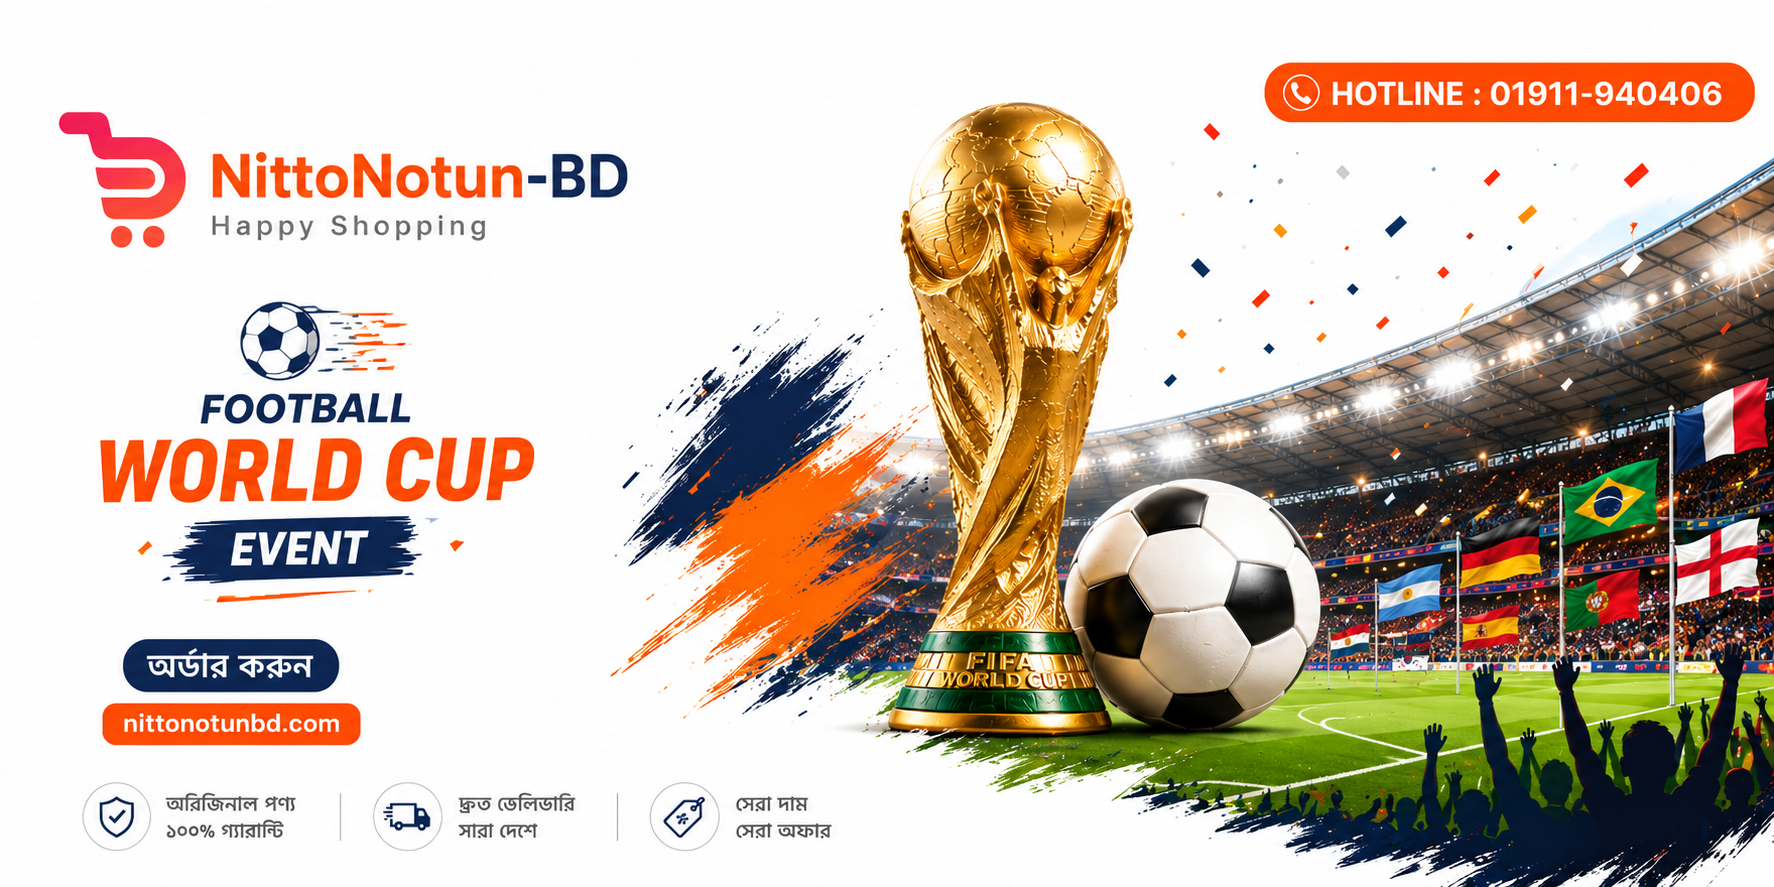
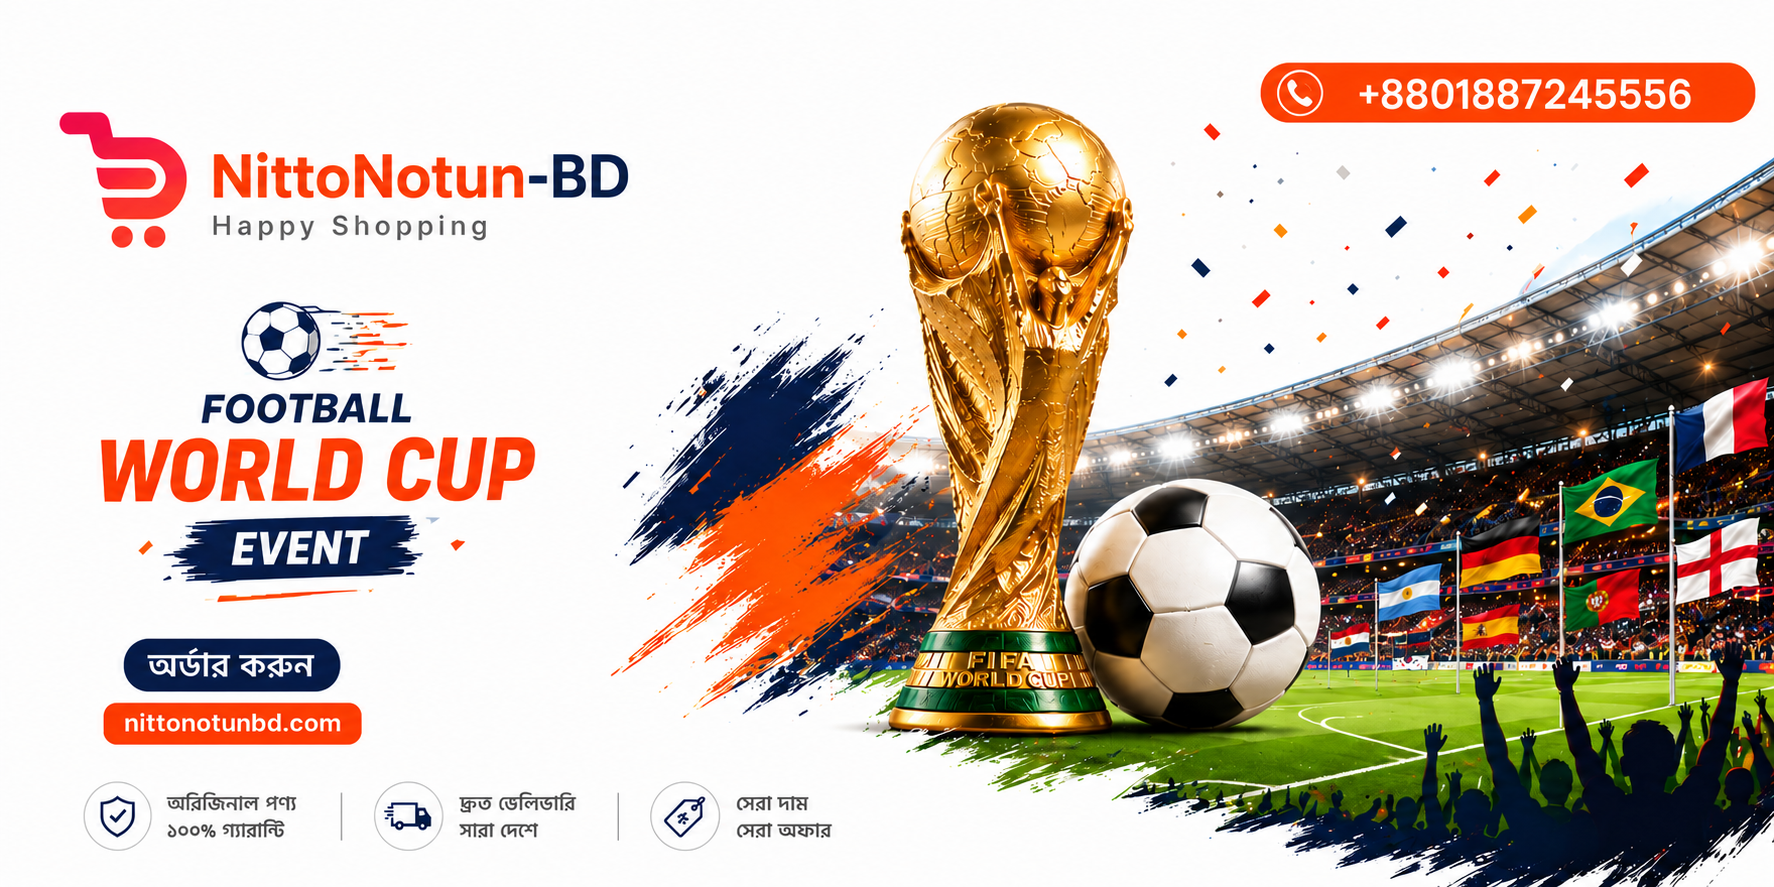
fix: Diaper category rename, remove loading spinner, admin panel update

diff --git a/src/components/DiaperSection.tsx b/src/components/DiaperSection.tsx
@@ -1,83 +1,27 @@
 "use client";
 
-import React, { useState, useEffect } from 'react';
+import React from 'react';
 import Image from 'next/image';
 import Link from 'next/link';
 import { useRouter } from 'next/navigation';
 import { useCart } from '../context/CartContext';
-import { supabase } from '../lib/supabase';
 import styles from './DiaperSection.module.css';
 
 interface DiaperItem {
   id: string | number;
+  slug?: string;
   title: string;
   price: number;
   imageUrl: string;
 }
 
-const mockDiaperProducts: DiaperItem[] = [
-  {
-    id: "diaper-5pcs",
-    title: "৫ পিস রি-ইউজেবল ডায়াপার",
-    price: 950,
-    imageUrl: "/images/products/diaper1.png"
-  },
-  {
-    id: "diaper-4pcs",
-    title: "৪ পিস রি-ইউজেবল ডায়াপার",
-    price: 850,
-    imageUrl: "/images/products/diaper2.png"
-  },
-  {
-    id: "diaper-3pcs",
-    title: "৩ পিস রি-ইউজেবল ডায়াপার",
-    price: 550,
-    imageUrl: "/images/products/diaper3.png"
-  },
-  {
-    id: "diaper-2pcs",
-    title: "২ পিস রি-ইউজেবল ডায়াপার",
-    price: 450,
-    imageUrl: "/images/products/diaper4.png"
-  }
-];
+interface DiaperSectionProps {
+  products: DiaperItem[];
+}
 
-export default function DiaperSection() {
+export default function DiaperSection({ products }: DiaperSectionProps) {
   const { addToCart } = useCart();
   const router = useRouter();
-  const [diaperProducts, setDiaperProducts] = useState<DiaperItem[]>([]);
-  const [loading, setLoading] = useState(true);
-
-  useEffect(() => {
-    async function fetchDiapers() {
-      try {
-        const { data, error } = await supabase
-          .from('products')
-          .select('*')
-          .eq('category', 'ডায়াপার')
-          .order('price', { ascending: false });
-
-        if (!error && data && data.length > 0) {
-          const mappedData = data.map((item: any) => ({
-            id: item.id,
-            title: item.title,
-            price: item.price,
-            imageUrl: item.image_url
-          }));
-          setDiaperProducts(mappedData);
-        } else {
-          setDiaperProducts(mockDiaperProducts);
-        }
-      } catch (err) {
-        console.error("Error fetching diapers from DB:", err);
-        setDiaperProducts(mockDiaperProducts);
-      } finally {
-        setLoading(false);
-      }
-    }
-
-    fetchDiapers();
-  }, []);
 
   const handleOrderNow = (diaper: DiaperItem) => {
     addToCart({
@@ -89,52 +33,45 @@ export default function DiaperSection() {
     router.push('/checkout');
   };
 
+  if (!products || products.length === 0) return null;
+
   return (
     <section className={styles.section}>
       <div className={styles.container}>
         <div className={styles.titleWrapper}>
-          <h2 className={styles.title}>রি-ইউজেবল ডায়াপার</h2>
+          <h2 className={styles.title}>রি-ইউজেবল ডায়াপার</h2>
           <div className={styles.titleUnderline}></div>
         </div>
 
-        {loading ? (
-          <div className={styles.loadingContainer}>
-            <div className={styles.spinner}></div>
-            <p>লোডিং হচ্ছে...</p>
-          </div>
-        ) : (
-          <div className={styles.grid}>
-            {diaperProducts.map((diaper) => (
-              <div key={diaper.id} className={styles.card}>
-                <Link href={`/product/${diaper.id}`} className={styles.cardLink}>
-                  <div className={styles.imageWrapper}>
-                    <Image
-                      src={diaper.imageUrl}
-                      alt={diaper.title}
-                      fill
-                      sizes="(max-width: 640px) 100vw, (max-width: 1024px) 50vw, 25vw"
-                      className={styles.image}
-                      priority
-                    />
-                  </div>
-                  <div className={styles.details}>
-                    <h3 className={styles.productTitle}>{diaper.title}</h3>
-                    <span className={styles.price}>৳ {diaper.price}</span>
-                  </div>
-                </Link>
-                <button
-                  className={styles.orderBtn}
-                  onClick={() => handleOrderNow(diaper)}
-                >
-                  অর্ডার করুন <span className={styles.arrow}>➔</span>
-                </button>
-              </div>
-            ))}
-          </div>
-        )}
+        <div className={styles.grid}>
+          {products.map((diaper) => (
+            <div key={diaper.id} className={styles.card}>
+              <Link href={`/product/${diaper.slug || diaper.id}`} className={styles.cardLink}>
+                <div className={styles.imageWrapper}>
+                  <Image
+                    src={diaper.imageUrl}
+                    alt={diaper.title}
+                    fill
+                    sizes="(max-width: 640px) 100vw, (max-width: 1024px) 50vw, 25vw"
+                    className={styles.image}
+                    priority
+                  />
+                </div>
+                <div className={styles.details}>
+                  <h3 className={styles.productTitle}>{diaper.title}</h3>
+                  <span className={styles.price}>৳ {diaper.price}</span>
+                </div>
+              </Link>
+              <button
+                className={styles.orderBtn}
+                onClick={() => handleOrderNow(diaper)}
+              >
+                অর্ডার করুন <span className={styles.arrow}>➔</span>
+              </button>
+            </div>
+          ))}
+        </div>
       </div>
     </section>
   );
 }
-
-

diff --git a/src/app/page.tsx b/src/app/page.tsx
@@ -6,8 +6,21 @@ import ProductGrid from '../components/ProductGrid';
 import Footer from '../components/Footer';
 import { getProducts } from '../data/products';
 
+const mockDiaperProducts = [
+  { id: 'diaper-5pcs', slug: 'diaper-5pcs', title: '৫ পিস রি-ইউজেবল ডায়াপার', price: 950, imageUrl: '/images/products/diaper1.png', stockStatus: 'In Stock' as const },
+  { id: 'diaper-4pcs', slug: 'diaper-4pcs', title: '৪ পিস রি-ইউজেবল ডায়াপার', price: 850, imageUrl: '/images/products/diaper2.png', stockStatus: 'In Stock' as const },
+  { id: 'diaper-3pcs', slug: 'diaper-3pcs', title: '৩ পিস রি-ইউজেবল ডায়াপার', price: 550, imageUrl: '/images/products/diaper3.png', stockStatus: 'In Stock' as const },
+  { id: 'diaper-2pcs', slug: 'diaper-2pcs', title: '২ পিস রি-ইউজেবল ডায়াপার', price: 450, imageUrl: '/images/products/diaper4.png', stockStatus: 'In Stock' as const },
+];
+
 export default async function Home() {
   const products = await getProducts();
+
+  const diaperProductsFromDB = products.filter(p => p.category === 'ডায়াপার')
+    .sort((a, b) => b.price - a.price);
+
+  // Supabase-এ ডায়াপার না থাকলে mock data ব্যবহার করো
+  const diaperProducts = diaperProductsFromDB.length > 0 ? diaperProductsFromDB : mockDiaperProducts;
 
   return (
     <>
@@ -15,15 +28,13 @@ export default async function Home() {
       <CategoriesBar />
       <main>
         <h1 style={{ position: 'absolute', width: '1px', height: '1px', padding: '0', margin: '-1px', overflow: 'hidden', clip: 'rect(0, 0, 0, 0)', border: '0' }}>
-          Nittonotonbd - Best Online Shopping in Bangladesh for Electronics & Lifestyle
+          Nittonotonbd - Best Online Shopping in Bangladesh for Electronics &amp; Lifestyle
         </h1>
         <HeroBanner />
-        <DiaperSection />
+        <DiaperSection products={diaperProducts} />
         <ProductGrid title="All Products" products={products} showSeeMore={true} />
       </main>
       <Footer />
     </>
   );
 }
-
-

diff --git a/src/data/products.ts b/src/data/products.ts
@@ -59,7 +59,47 @@ export const mockProducts: Product[] = [
     category: 'মশারী',
     stockStatus: 'Out Of Stock',
     callToOrder: '01942-838348'
-  }
+  },
+  {
+    id: 101,
+    slug: 'diaper-5pcs',
+    title: '৫ পিস রি-ইউজেবল ডায়াপার',
+    price: 950,
+    imageUrl: '/images/products/diaper1.png',
+    category: 'নরমাল চাদর',
+    stockStatus: 'In Stock',
+    callToOrder: '01942-838348'
+  },
+  {
+    id: 102,
+    slug: 'diaper-4pcs',
+    title: '৪ পিস রি-ইউজেবল ডায়াপার',
+    price: 850,
+    imageUrl: '/images/products/diaper2.png',
+    category: 'নরমাল চাদর',
+    stockStatus: 'In Stock',
+    callToOrder: '01942-838348'
+  },
+  {
+    id: 103,
+    slug: 'diaper-3pcs',
+    title: '৩ পিস রি-ইউজেবল ডায়াপার',
+    price: 550,
+    imageUrl: '/images/products/diaper3.png',
+    category: 'নরমাল চাদর',
+    stockStatus: 'In Stock',
+    callToOrder: '01942-838348'
+  },
+  {
+    id: 104,
+    slug: 'diaper-2pcs',
+    title: '২ পিস রি-ইউজেবল ডায়াপার',
+    price: 450,
+    imageUrl: '/images/products/diaper4.png',
+    category: 'নরমাল চাদর',
+    stockStatus: 'In Stock',
+    callToOrder: '01942-838348'
+  },
 ];
 
 const generateSlug = (text: string) => {
@@ -198,7 +238,11 @@ export async function getProductsByCategory(category: string): Promise<Product[]
 
   if (error) {
     console.error('Error fetching products by category:', error);
-    return [];
+    return mockProducts.filter(p => p.category === category);
+  }
+
+  if (!data || data.length === 0) {
+    return mockProducts.filter(p => p.category === category);
   }
 
   return data.map(p => ({

diff --git a/src/app/category/[slug]/page.tsx b/src/app/category/[slug]/page.tsx
@@ -12,8 +12,13 @@ interface Props {
 
 const categoryMap: Record<string, string> = {
   "waterproof-chador": "ওয়াটারপ্রুফ চাদর",
-  "normal-chador": "নরমাল চাদর",
+  "normal-chador": "ডায়াপার",
   "moshari": "মশারী"
+};
+
+// এই slug গুলোতে extra categories-ও মিলিয়ে দেখাবে
+const extraCategoryMap: Record<string, string[]> = {
+  "normal-chador": ["নরমাল চাদর"],
 };
 
 export default async function CategoryPage({ params }: Props) {
@@ -26,15 +31,20 @@ export default async function CategoryPage({ params }: Props) {
 
   const products = await getProductsByCategory(categoryName);
 
+  // Extra categories (যেমন ডায়াপার → নরমাল চাদরে দেখাবে)
+  const extras = extraCategoryMap[resolvedParams.slug] || [];
+  const extraProducts = await Promise.all(extras.map(cat => getProductsByCategory(cat)));
+  const allProducts = [...products, ...extraProducts.flat()];
+
   return (
     <>
       <Header />
       <CategoriesBar />
       <main style={{ padding: '20px 0' }}>
         <div style={{ maxWidth: '1200px', margin: '0 auto', padding: '0 20px' }}>
-          <ProductGrid title={`${categoryName}`} products={products} />
+          <ProductGrid title={`${categoryName}`} products={allProducts} />
 
-          {products.length === 0 && (
+          {allProducts.length === 0 && (
             <div style={{ textAlign: 'center', padding: '60px 0', color: 'var(--text-light)' }}>
               <p>No products found in this category.</p>
             </div>

diff --git a/src/app/admin/products/edit/page.tsx b/src/app/admin/products/edit/page.tsx
@@ -770,7 +770,7 @@ const EditProductForm: React.FC = () => {
               >
                 <option value="">Select Category</option>
                 <option value="ওয়াটারপ্রুফ চাদর">ওয়াটারপ্রুফ চাদর</option>
-                <option value="নরমাল চাদর">নরমাল চাদর</option>
+                <option value="ডায়াপার">ডায়াপার</option>
                 <option value="মশারী">মশারী</option>
               </select>
             </div>

diff --git a/src/app/admin/products/add/page.tsx b/src/app/admin/products/add/page.tsx
@@ -683,7 +683,7 @@ const AddProductPage: React.FC = () => {
               >
                 <option value="">Select Category</option>
                 <option value="ওয়াটারপ্রুফ চাদর">ওয়াটারপ্রুফ চাদর</option>
-                <option value="নরমাল চাদর">নরমাল চাদর</option>
+                <option value="ডায়াপার">ডায়াপার</option>
                 <option value="মশারী">মশারী</option>
               </select>
             </div>

diff --git a/src/components/CategoriesBar.tsx b/src/components/CategoriesBar.tsx
@@ -3,7 +3,7 @@ import styles from './CategoriesBar.module.css';
 
 const categories = [
   { name: "ওয়াটারপ্রুফ চাদর", slug: "waterproof-chador" },
-  { name: "নরমাল চাদর", slug: "normal-chador" },
+  { name: "ডায়াপার", slug: "normal-chador" },
   { name: "মশারী", slug: "moshari" }
 ];
 
